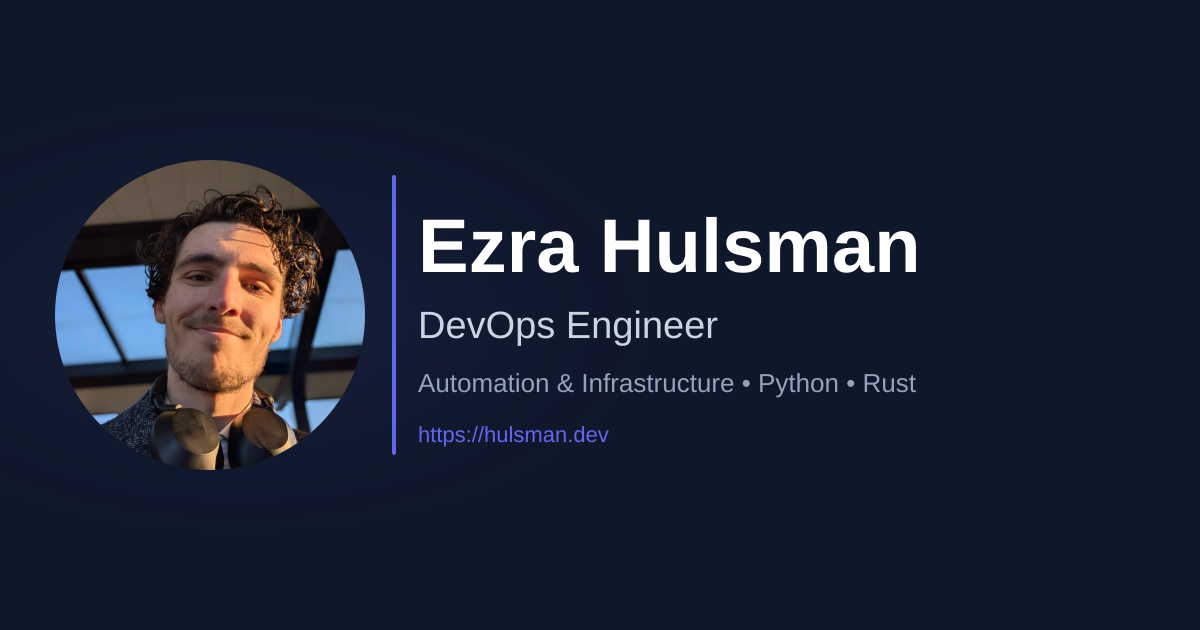
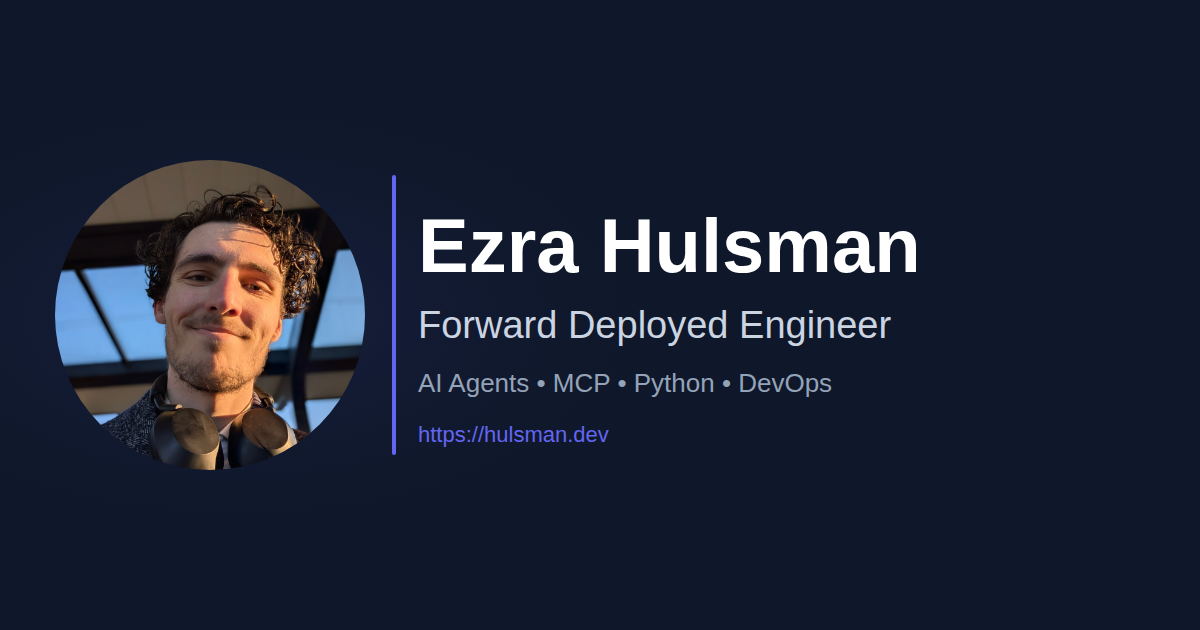
feat(content): reposition site as Forward Deployed Engineer

Changed region(s): [[0.3392, 0.4825, 0.74, 0.5429], [0.3392, 0.573, 0.7708, 0.6333], [0.3392, 0.6635, 0.4933, 0.7238]]

diff --git a/src/config/site.ts b/src/config/site.ts
@@ -4,18 +4,18 @@ type EmploymentStatus = 'available' | 'employed-open';
 const site = {
   name: 'Ezra Hulsman',
   url: 'https://hulsman.dev',
-  role: 'DevOps / Pega Engineer',
+  role: 'Forward Deployed Engineer',
   company: 'Anamata',
   location: 'Utrecht, NL 🇳🇱',
   quote: '"Proverbs 3:5-7 NIV"',
   quoteUrl: "https://www.bible.com/bible/111/PRO.3.NIV#:~:text=Trust%20in%20the,and%20shun%20evil.", 
-  summary: 'Linux-first DevOps Engineer who automates manual workflows with Python & Bash to speed deployments and reduce friction, driven to continuously improve systems and skills.',
+  summary: 'Forward Deployed Engineer building ANNA, an AI assistant in Microsoft Teams, and making it work for the people who use it. Python, AI agents and MCP, on a Linux and DevOps foundation.',
   contactMessage: `Send a message and I'll get back to you soon. Whether it's about work opportunities, requesting my full CV, open source projects, or just to chat about Formula 1!`,
 
   skills: {
     languages: ['Python', 'Bash', 'Java', 'TypeScript'],
     tools: ['Linux', 'Docker', 'K8s', 'Git', 'CI/CD'],
-    frameworks: ['React', 'Pega', 'Astro'],
+    frameworks: ['React', 'Astro', 'Claude Agent SDK'],
   },
 
   interests: [
@@ -46,12 +46,14 @@ const site = {
   },
 
   about: `
-    I'm a DevOps Engineer at Anamata where I work on infrastructure automation and Pega development. 
-    At 2 meters tall, I have a good overview of both server racks and code architecture.
+    I'm a Forward Deployed Engineer at Anamata, where I own ANNA, our AI assistant in Microsoft Teams,
+    and much of what we build around it. At 2 meters tall, I have a good overview of both the codebase
+    and the room it gets deployed in.
 
-    I spend most of my time writing Python and Rust, setting up CI/CD pipelines, and making sure systems 
-    don't break at 3 AM. I genuinely enjoy the challenge of building reliable infrastructure and creating 
-    tools that make mine and other developers' lives easier.
+    Most of that work is Python, connecting ANNA to the tools teams already use, and keeping it secure
+    and reliable in production. I came to AI coding agents as a sceptic. Now they write a lot of
+    my code, and I still build like one: tests first, a spec for anything bigger, and nothing ships that
+    I can't explain.
 
     In my free time, I work on personal projects like a self-hosted chat TUI in Rust and contribute
     to open source when I can. I'm also a big Formula 1 fan - there's something satisfying about both 
@@ -111,7 +113,7 @@ const site = {
   // SEO and social media configuration
   seo: {
     author: 'Ezra Hulsman',
-    keywords: 'DevOps Engineer, Pega Developer, Python, Rust, Infrastructure Automation, CI/CD, Kubernetes, Docker, Linux',
+    keywords: 'Forward Deployed Engineer, AI Agents, AI Deployment, Model Context Protocol, MCP, Microsoft Teams, Python, DevOps, Linux, Docker',
     robots: 'index, follow',
     ogImage: '/og-image.png',
     ogType: 'website',

diff --git a/src/config/resume.ts b/src/config/resume.ts
@@ -47,9 +47,9 @@ export const skillCategories: SkillCategory[] = [
     items: ['Python', 'Java', 'TypeScript', 'React', 'Bash', 'Rust', 'C/C++ (academic)'],
   },
   {
-    label: 'Pega Platform',
+    label: 'AI & Agents',
     badgeClass: 'tertiary',
-    items: ['Pega Development', 'PDC', 'Pega Debugging'],
+    items: ['AI Deployment', 'AI Agents', 'Model Context Protocol (MCP)', 'Claude', 'Technical Consultation'],
   },
   {
     label: 'Methods & Practices',
@@ -61,9 +61,22 @@ export const skillCategories: SkillCategory[] = [
     badgeClass: 'primary',
     items: ['Linux', 'Docker', 'Kubernetes', 'Git', 'SQL', 'Prometheus', 'Grafana', 'Cloudflare'],
   },
+  {
+    label: 'Pega Platform',
+    badgeClass: 'tertiary',
+    items: ['Pega Development', 'PDC', 'Pega Debugging'],
+  },
 ];
 
 export const experience: Experience[] = [
+  {
+    role: 'Forward Deployed Engineer',
+    client: 'Anamata',
+    startDate: '2025',
+    summary: 'Owns ANNA, Anamata\'s AI assistant in Microsoft Teams, end to end: Python, Claude and MCP, including connectors to the systems people already use. With it, staff request leave, log hours or search policy documents without switching apps. Half the job is engineering, the other half is working with the people who use it and looking after ANNA in production, from security to EU AI Act transparency. Also built the anamata.ai website and is laying the groundwork for rolling ANNA out to other companies.',
+    relatedProject: 'AnnaAssistant',
+    group: 'consulting',
+  },
   {
     role: 'DevOps & Software Engineer',
     client: 'Major European bank',
@@ -87,10 +100,10 @@ export const experience: Experience[] = [
     group: 'consulting',
   },
   {
-    role: 'Pega Developer',
+    role: 'Pega DevOps Engineer',
     client: 'Anamata',
     startDate: '2023',
-    summary: 'Solo-built Anna — a conversational AI assistant (Python, Claude, MCP) that unifies a consultancy\'s internal tools behind a single chat interface, giving employees natural-language access to leave tracking, case management, seat booking, and company policy instead of switching between separate apps. Also earned Pega System Architect and Business Architect certifications during this period.',
+    summary: 'Pega platform and DevOps engineering for Anamata\'s clients, running alongside the Forward Deployed Engineer role. Earned the Pega Certified System Architect and Business Architect certifications in 2023.',
     group: 'consulting',
   },
   {
